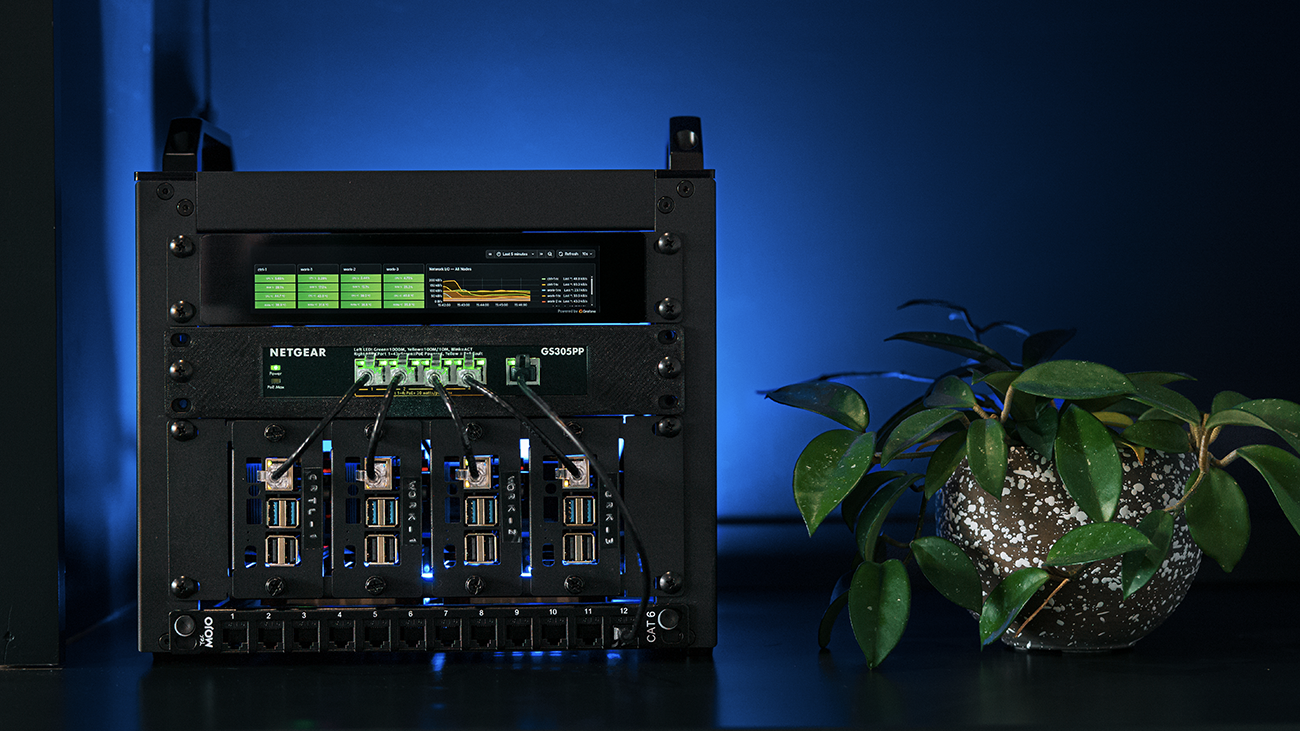
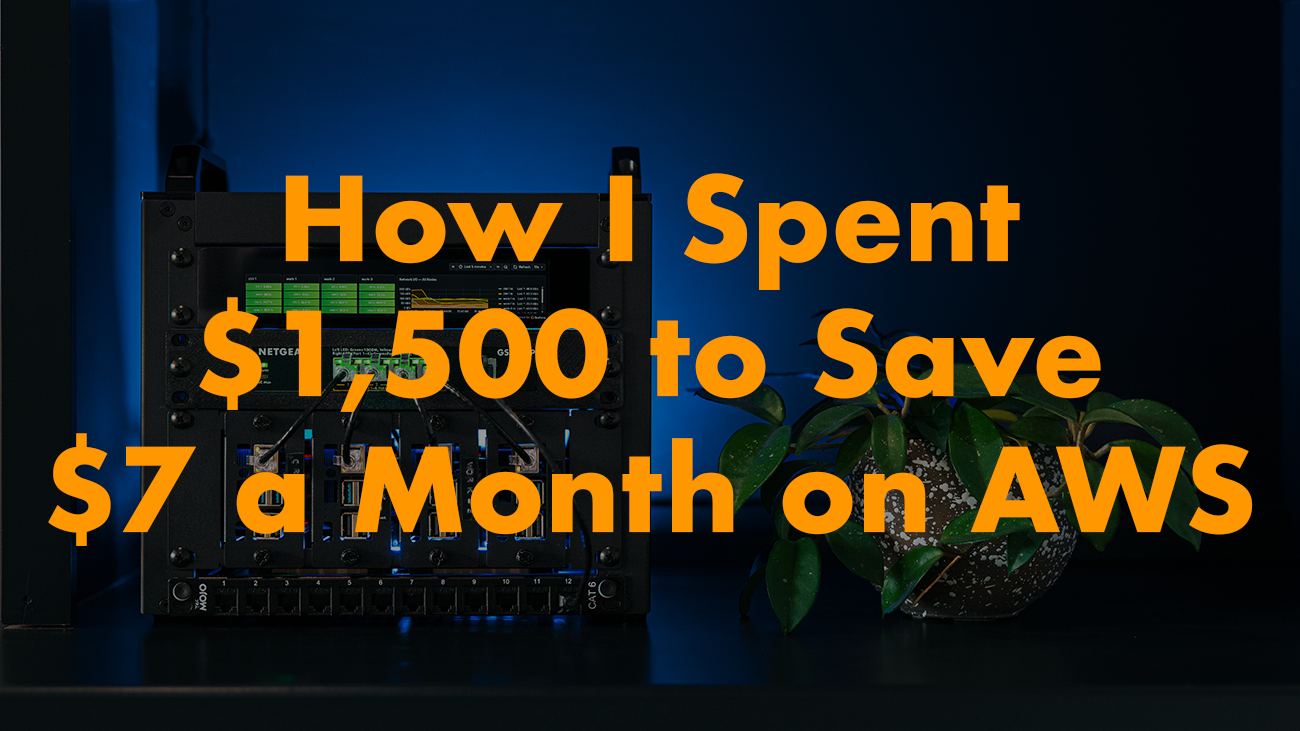
feat: update portfolio with new projects and image assets

diff --git a/src/app/portfolio/portfolio.ts b/src/app/portfolio/portfolio.ts
@@ -32,8 +32,8 @@ export class Portfolio {
       img: 'portfolio/destiny-insights.png',
     },
     {
-      title: 'homelab',
-      description: 'Self-hosted Kubernetes cluster running on Raspberry Pis',
+      title: 'Homelab',
+      description: 'Bookshelf Kubernetes cluster',
       url: 'https://blog.mattjarrett.dev/homelab/',
       img: 'portfolio/homelab.png',
     },
@@ -54,6 +54,18 @@ export class Portfolio {
       description: 'Discogs vinyl collection search, defaults to my collection',
       url: 'https://myvinyl.mattjarrett.dev',
       img: 'portfolio/my-vinyl.png',
+    },
+    {
+      title: 'I Pub Sub\'d my Sump Pump',
+      description: '',
+      url: 'https://blog.mattjarrett.dev/i-pub-subd-my-sump-pump/',
+      img: 'portfolio/pub-sub-sump-pump.png',
+    },
+    {
+      title: 'Velvet Rope',
+      description: 'About npm supply chain age gate — blocks packages published less than N days ago',
+      url: 'https://github.com/cujarrett/velvet-rope',
+      img: 'portfolio/velvet-rope.png',
     },
   ]);
 }